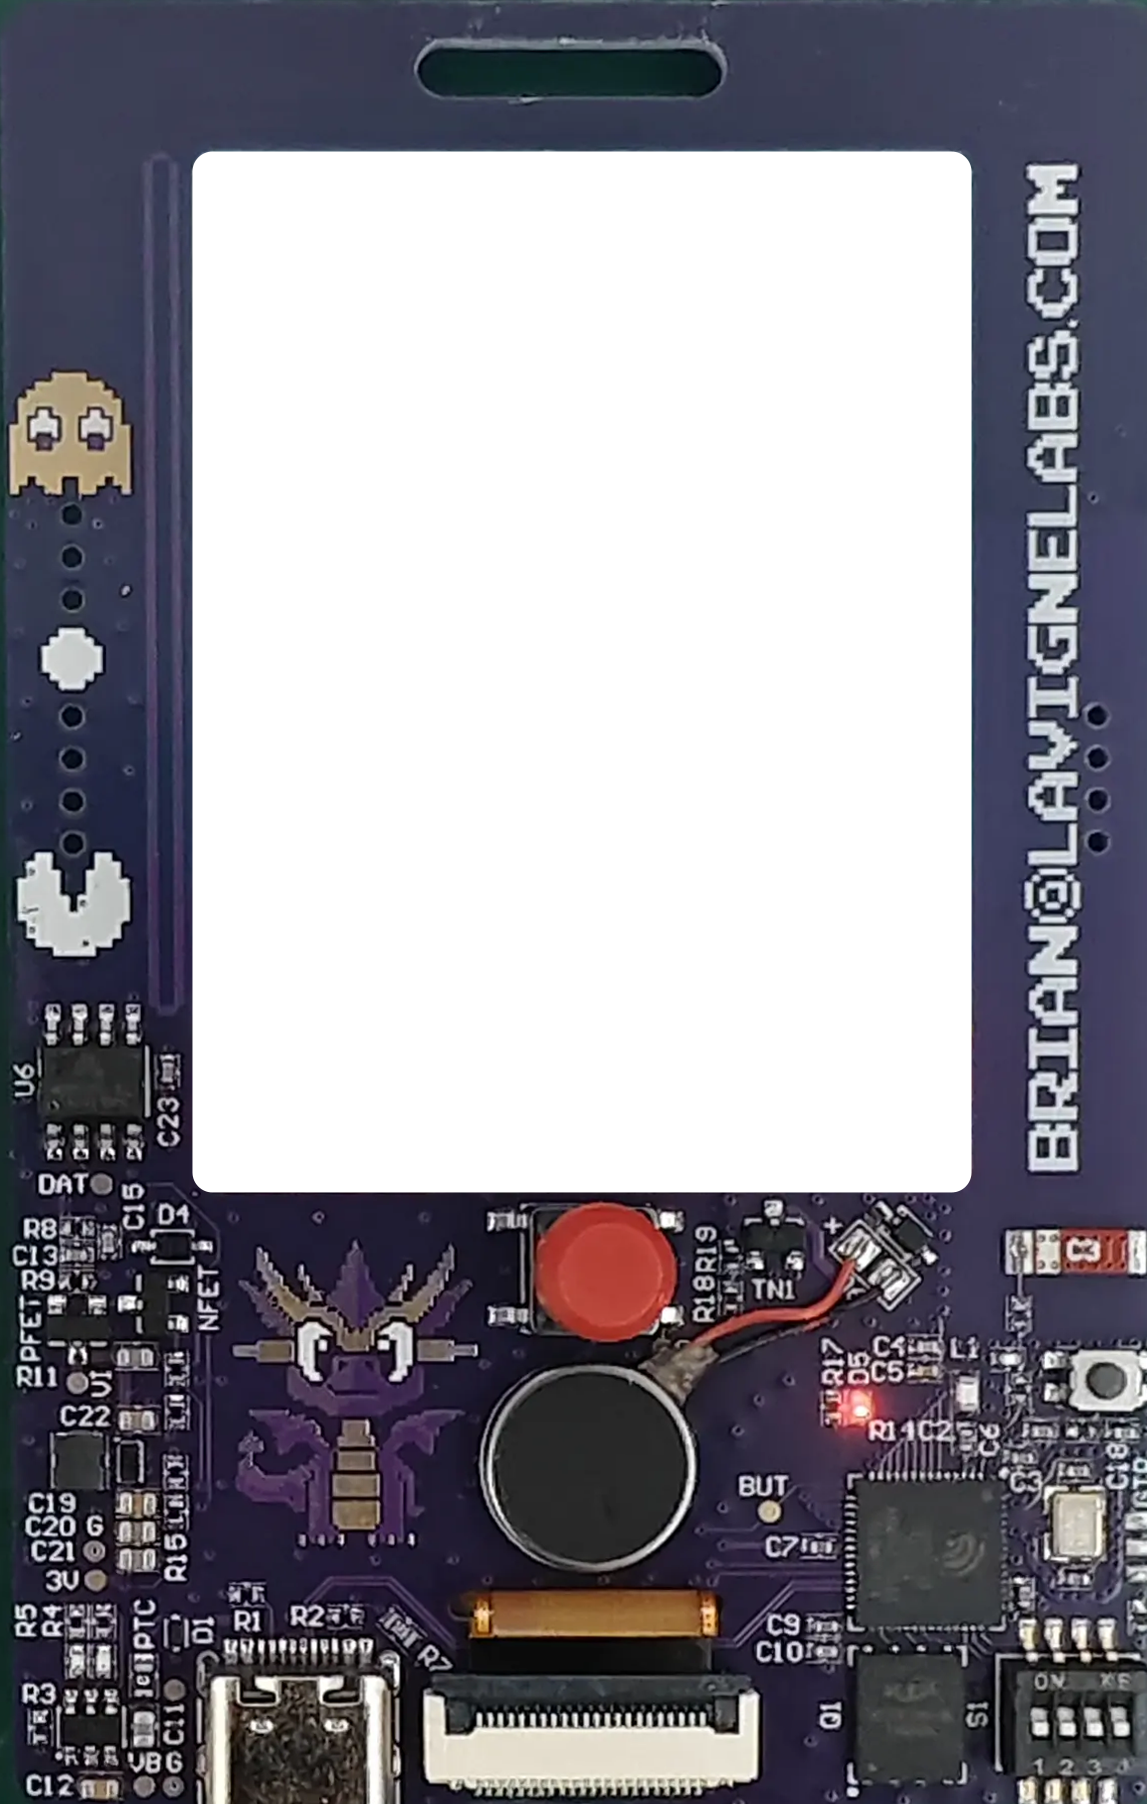
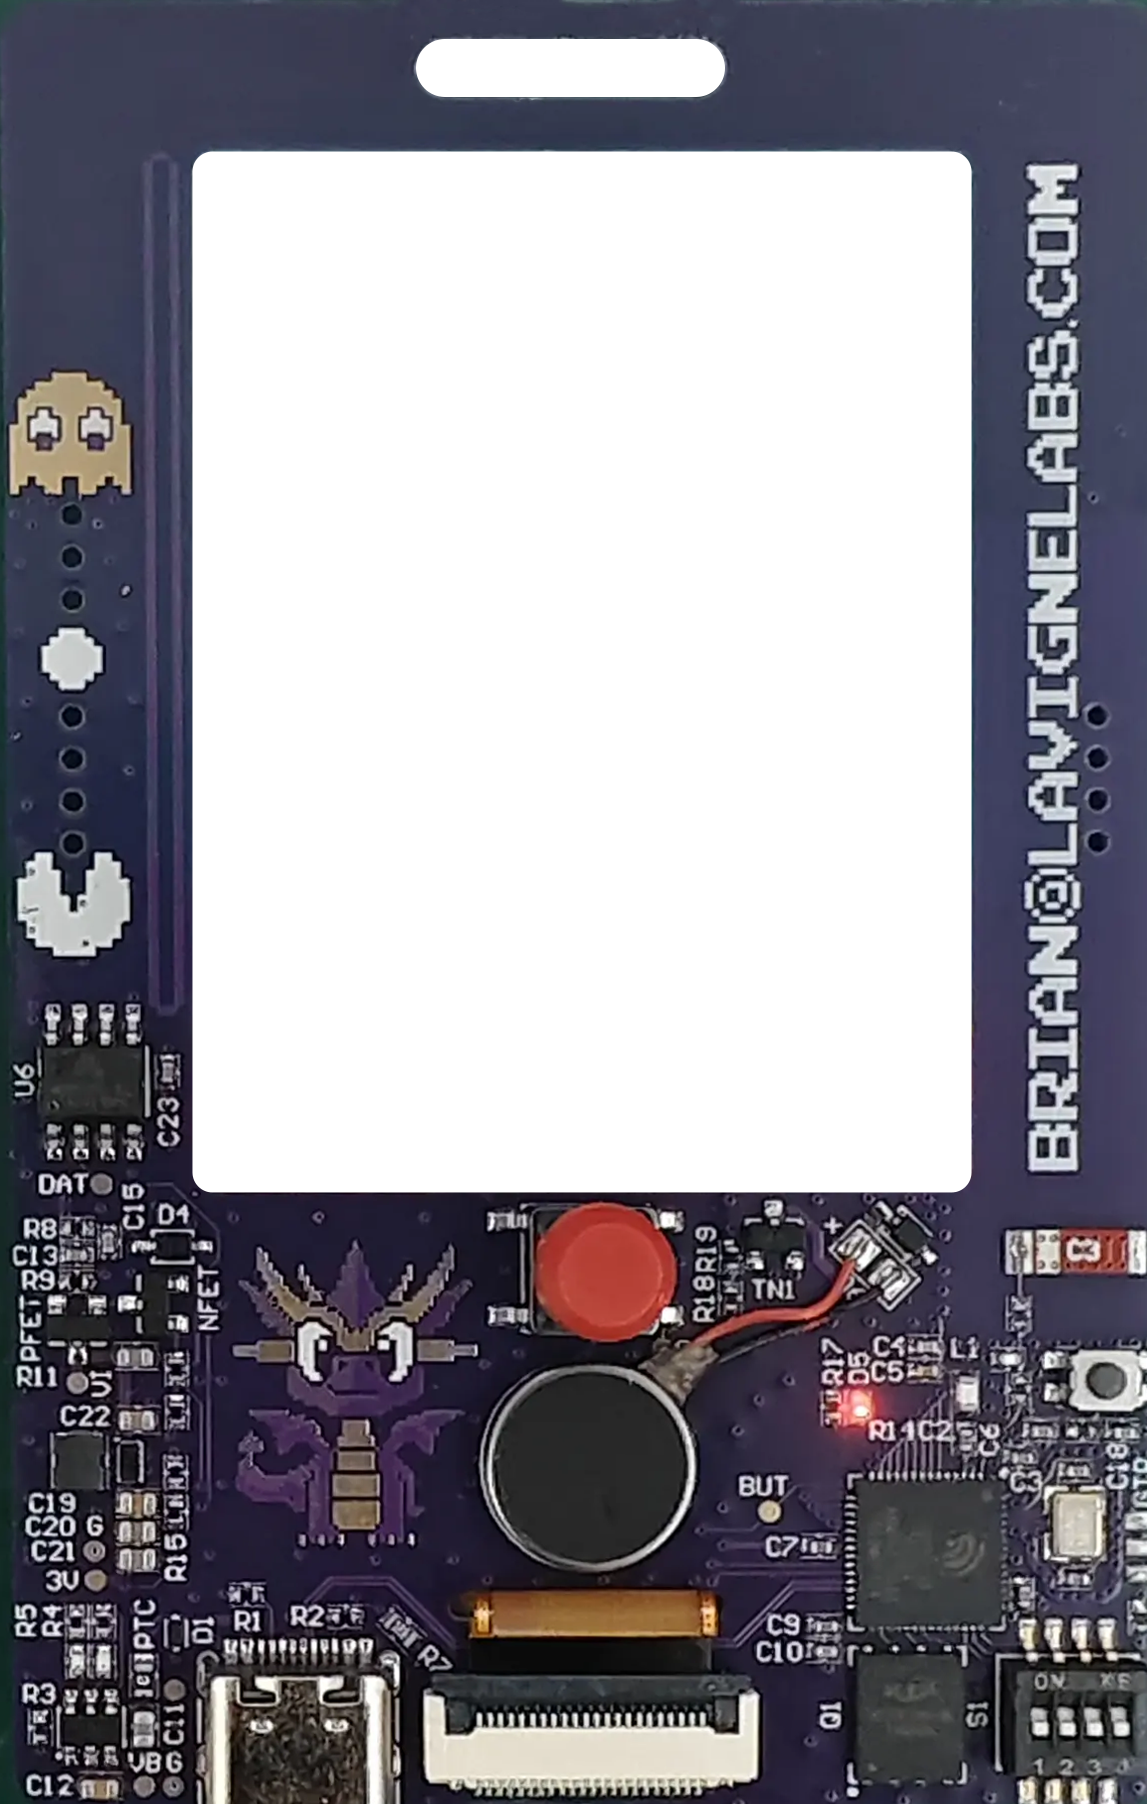
games(shiverwing): tap-anywhere, bigger desktop, zoom modes, transparent mount hole
- Whole badge is the tap/click region (press the physical-button area to flap)
- Size off the viewport (no fixed cap) so it's large on desktop and mobile
- Zoom toggle (top-right): full badge → full-width cropped height → LCD only,
  persisted in localStorage; rounded 20px corners in every mode
- Updated badge art with a see-through mounting hole

Changed region(s): [[0.3662, 0.0, 0.6408, 0.0621]]

diff --git a/components/games/Shiverwing.tsx b/components/games/Shiverwing.tsx
@@ -22,6 +22,21 @@ import { sfx } from "@/lib/sfx";
 const SCREEN_W = 240;
 const SCREEN_H = 320;
 
+// --- badge bezel geometry (badge-bezel.png is BADGE_W x BADGE_H px) ---
+const BADGE_W = 1147;
+const BADGE_H = 1804;
+// the LCD screen cutout, as fractions of the badge image
+const LCD = { left: 0.1683, top: 0.0843, width: 0.6774, height: 0.5759 };
+// zoom modes — crop rectangles (fractions of the badge). 0: full badge,
+// 1: full WIDTH, cropped height (LCD framed with equal top/bottom bezel),
+// 2: LCD only.
+const ZOOM_MODES = [
+  { fx: 0, fy: 0, fw: 1, fh: 1 },
+  { fx: 0, fy: 0, fw: 1, fh: LCD.top * 2 + LCD.height },
+  { fx: LCD.left, fy: LCD.top, fw: LCD.width, fh: LCD.height },
+];
+const ZOOM_KEY = "shiverwing-zoom";
+
 // --- constants lifted verbatim from the firmware ---
 const GRAVITY = 0.125;
 const JUMP_FORCE = 3.0;
@@ -103,7 +118,14 @@ function rand(a: number, b: number) {
 
 export default function Shiverwing() {
   const canvasRef = useRef<HTMLCanvasElement>(null);
+  const wrapRef = useRef<HTMLDivElement>(null); // whole badge = the tap/click region
   const [loading, setLoading] = useState(true);
+  const [zoom, setZoom] = useState(0); // 0 full badge · 1 LCD+border · 2 LCD only
+
+  useEffect(() => {
+    const z = Number(localStorage.getItem(ZOOM_KEY));
+    if (z === 1 || z === 2) setZoom(z);
+  }, []);
 
   const g = useRef({
     phase: "loading" as Phase,
@@ -393,11 +415,15 @@ export default function Shiverwing() {
       }
     };
     const onPointer = (e: Event) => {
+      if ((e.target as Element | null)?.closest?.("[data-noflap]")) return; // zoom button
       e.preventDefault();
       press();
     };
     window.addEventListener("keydown", onKey);
-    const el = canvasRef.current;
+    // Press anywhere on the badge (incl. the physical-button area) to flap — not
+    // just the screen. The bezel img is pointer-events-none so taps fall through
+    // to this wrapper.
+    const el = wrapRef.current;
     el?.addEventListener("mousedown", onPointer);
     el?.addEventListener("touchstart", onPointer, { passive: false });
 
@@ -410,37 +436,82 @@ export default function Shiverwing() {
     };
   }, []);
 
-  // Transparent screen cutout in the badge artwork (fractions of the image),
-  // measured from badge-bezel.png. Its aspect ~0.748 ≈ the game's 240/320.
-  const SCREEN = { left: "16.83%", top: "8.43%", width: "67.74%", height: "57.59%" };
+  const z = ZOOM_MODES[zoom];
+  // canvas covers the LCD (+ a hair of overlap so no edge gap when zoomed)
+  const lcdStyle = {
+    left: `${(LCD.left - 0.004) * 100}%`,
+    top: `${(LCD.top - 0.004) * 100}%`,
+    width: `${(LCD.width + 0.008) * 100}%`,
+    height: `${(LCD.height + 0.008) * 100}%`,
+  } as const;
   return (
     <div className="flex flex-col items-center">
-      {/* The real Shiverwing badge as the frame; the game shows through the
-          transparent screen cutout. Outer corners rounded (20px) → transparent. */}
-      <div className="relative" style={{ width: "min(92vw, 54vh)", maxWidth: 440 }}>
-        <canvas
-          ref={canvasRef}
-          width={SCREEN_W}
-          height={SCREEN_H}
-          className="absolute block touch-none select-none"
-          style={{ ...SCREEN, objectFit: "fill", imageRendering: "pixelated" }}
-        />
-        {/* eslint-disable-next-line @next/next/no-img-element */}
-        <img
-          src="/games/shiverwing/badge-bezel.png"
-          alt="Shiverwing badge"
-          draggable={false}
-          className="pointer-events-none relative block w-full select-none"
-          style={{ borderRadius: 20 }}
-        />
-        {loading && (
-          <div className="absolute grid place-items-center bg-ink" style={SCREEN}>
-            <p className="font-mono text-sm text-white/60">Loading…</p>
-          </div>
-        )}
+      {/* The viewport crops to the current zoom mode; the badge "stage" is sized
+          and shifted so the crop fills it. Tap anywhere = flap (the screen and the
+          physical-button area); the zoom button is excluded. Corners rounded 20px. */}
+      <div
+        ref={wrapRef}
+        className="relative cursor-pointer select-none touch-none overflow-hidden"
+        style={{
+          width: "min(94vw, 52dvh)",
+          aspectRatio: `${z.fw * BADGE_W} / ${z.fh * BADGE_H}`,
+          borderRadius: 20,
+        }}
+      >
+        <div
+          className="absolute"
+          style={{
+            width: `${100 / z.fw}%`,
+            left: `${-(z.fx / z.fw) * 100}%`,
+            top: `${-(z.fy / z.fh) * 100}%`,
+          }}
+        >
+          <canvas
+            ref={canvasRef}
+            width={SCREEN_W}
+            height={SCREEN_H}
+            className="absolute block"
+            style={{ ...lcdStyle, objectFit: "fill", imageRendering: "pixelated" }}
+          />
+          {/* eslint-disable-next-line @next/next/no-img-element */}
+          <img
+            src="/games/shiverwing/badge-bezel.png"
+            alt="Shiverwing badge"
+            draggable={false}
+            className="pointer-events-none relative block w-full select-none"
+          />
+          {loading && (
+            <div className="absolute grid place-items-center bg-ink" style={lcdStyle}>
+              <p className="font-mono text-sm text-white/60">Loading…</p>
+            </div>
+          )}
+        </div>
+
+        {/* zoom toggle — full badge → LCD+border → LCD only */}
+        <button
+          type="button"
+          data-noflap
+          aria-label="Change zoom"
+          onClick={() =>
+            setZoom((m) => {
+              const n = (m + 1) % 3;
+              try {
+                localStorage.setItem(ZOOM_KEY, String(n));
+              } catch {}
+              return n;
+            })
+          }
+          className="absolute right-2 top-2 z-10 grid h-8 w-8 place-items-center rounded-full bg-black/45 text-white backdrop-blur-sm transition hover:bg-black/65"
+        >
+          <svg viewBox="0 0 24 24" className="h-4 w-4" fill="none" stroke="currentColor" strokeWidth="2">
+            <circle cx="11" cy="11" r="7" />
+            <path d="M21 21l-4.2-4.2M8 11h6M11 8v6" strokeLinecap="round" />
+          </svg>
+        </button>
       </div>
       <p className="mt-4 text-center text-sm text-slate">
-        Tap / click / Space to fly. The real badge game — exact sprites, fonts, physics &amp; screens.
+        Tap / click / Space to fly · the zoom icon (top-right) frames the badge. The real
+        badge game — exact sprites, fonts, physics &amp; screens.
       </p>
     </div>
   );
